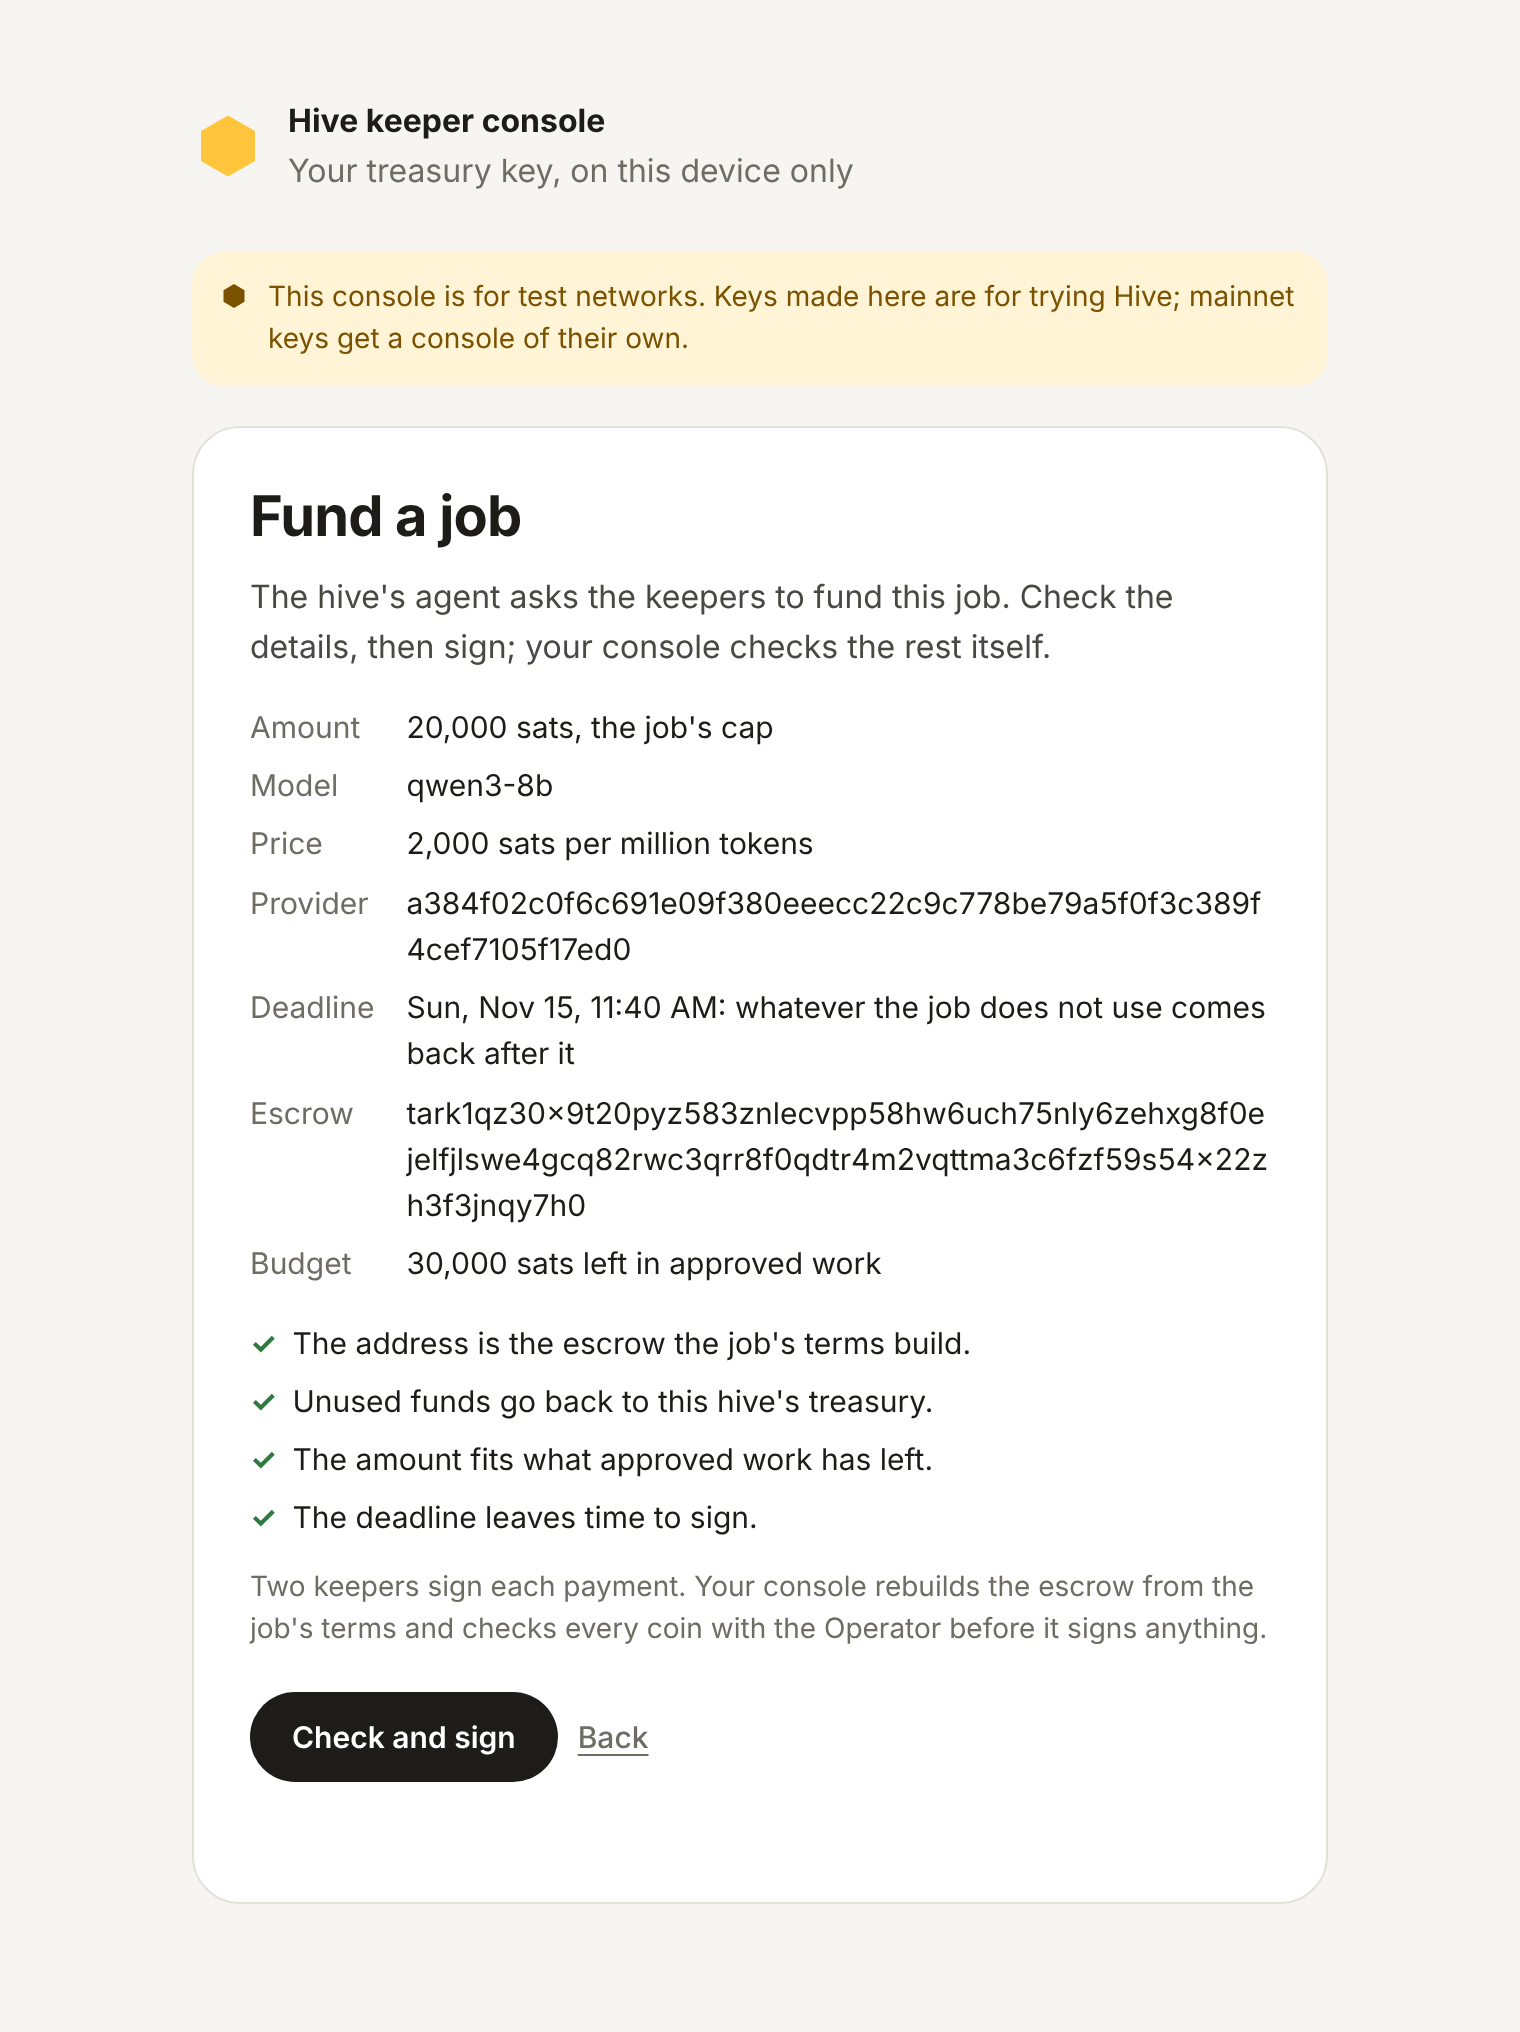
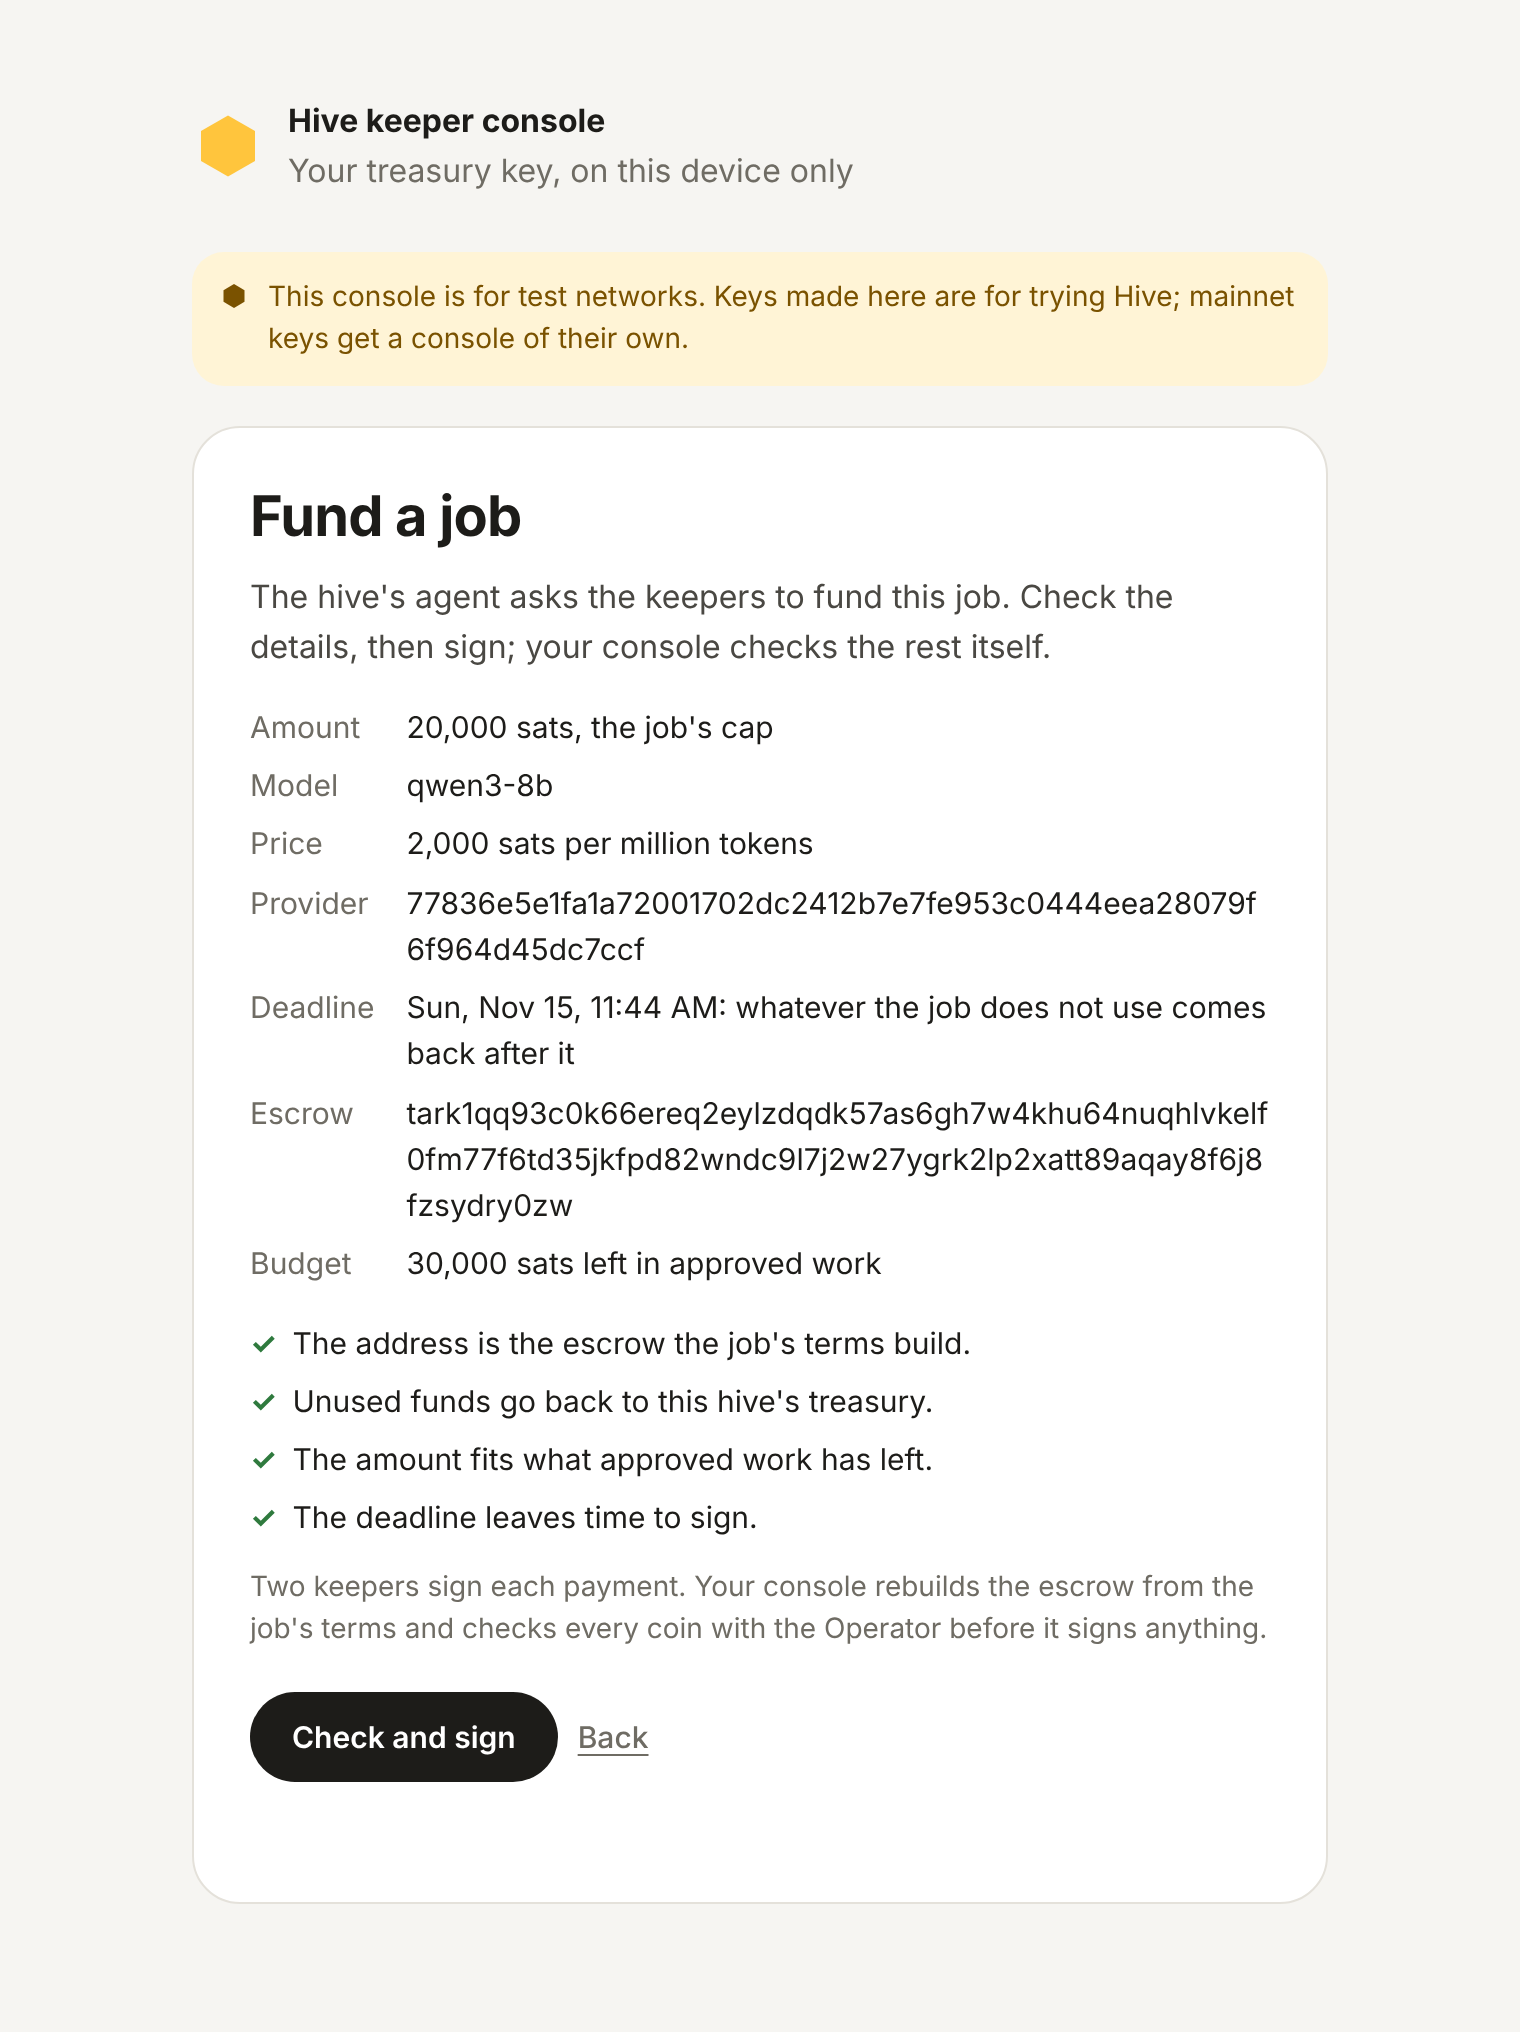
Keepers, passkeys and signing in the README

Changed region(s): [[0.2783, 0.5271, 0.8349, 0.6201], [0.2783, 0.4341, 0.8349, 0.4961]]

diff --git a/test/support/keeper-console.ts b/test/support/keeper-console.ts
@@ -51,6 +51,8 @@ export async function keeperDevice(
   consoleUrl: string,
   arkdUrl: string,
   contextOptions: Record<string, unknown> = {},
+  /** Called on each screen of key creation, for screenshots. */
+  onScreen: (page: Page, name: string) => Promise<void> = async () => {},
 ) {
   const context = await browser.newContext(contextOptions);
   const page = await context.newPage();
@@ -79,9 +81,13 @@ export async function keeperDevice(
   const errors: string[] = [];
   page.on("pageerror", (e: Error) => errors.push(e.message));
   await page.goto(consoleUrl);
+  await page.getByRole("heading", { name: "Create your keeper key" }).waitFor();
+  await onScreen(page, "create");
   await page.getByRole("button", { name: "Create my key" }).click();
+  await page.locator("#b-pass").waitFor();
   await page.locator("#b-pass").fill("correct horse battery staple");
   await page.locator("#b-again").fill("correct horse battery staple");
+  await onScreen(page, "backup");
   await page.getByRole("button", { name: "Encrypt the backup" }).click();
   await page.getByRole("button", { name: "Save the backup file" }).click();
   await page

diff --git a/test/keeper-console-e2e.ts b/test/keeper-console-e2e.ts
@@ -43,6 +43,7 @@ try {
     site.url,
     fake.deployment().arkdUrl,
     shots ? { deviceScaleFactor: 2, viewport: { width: 760, height: 900 } } : {},
+    (page, name) => shoot(page, `keeper-console-${name}`),
   );
   await shoot(a.page, "keeper-console-key");
   const b = await keeperDevice(browser, site.url, fake.deployment().arkdUrl);

diff --git a/README.md b/README.md
@@ -78,19 +78,58 @@ For questions it can bring in a guide, a Goose agent on Buzz's own harness, and 
 community gets four tools from the plugin (`hive_guide`, `hive_proposals`, `hive_status` and
 `hive_docs`) that answer from the hive's live state and its documentation.
 
+One plugin build serves every hive on a Hive service and finds its own by the channel it sits in.
+The plugin screenshots are its own components rendered with sample data and Buzz's tokens by
+`hive/hive-buzz/test/preview.mjs`, and [the plugin's README](hive/hive-buzz/README.md) covers it in
+full. Buzz describes its conversation hooks as a preview rather than a stable interface, so a new
+Buzz release may ask for adjustments.
+
+## Keepers, passkeys and signing
+
+The treasury's keys belong to three keepers the community chooses in its channel, and nobody else
+ever holds them: not the host, not HiveBot, not the agent. Each keeper makes and keeps their key in
+the keeper console, a single page served from an origin of its own, on whatever device they already
+unlock with Touch ID, Face ID or a screen lock.
+
 <p>
-<img src="docs/images/keeper-console.png" alt="The keeper console once a keeper has made their key, ready to open the hive's signing desk" width="49%">
-<img src="docs/images/keeper-console-check.png" alt="The keeper console checking a job before the keeper signs its payment" width="49%">
+<img src="docs/images/keeper-console-create.png" alt="The keeper console's first screen: create your keeper key" width="49%">
+<img src="docs/images/keeper-console-backup.png" alt="Saving an encrypted backup of the key with a passphrase" width="49%">
 </p>
 
-Signing happens outside Buzz, in the keeper console, a single page where each keeper makes their
-treasury key behind a passkey on their own device, saves an encrypted backup, and later checks and
-signs each payment against the escrow's own terms. One plugin build serves every hive on a Hive
-service and finds its own by the channel it sits in. The plugin screenshots are its own components
-rendered with sample data and Buzz's tokens by `hive/hive-buzz/test/preview.mjs`, the console's
-come from `test/keeper-console-e2e.ts` with `HIVE_SHOTS` set, and
-[the plugin's README](hive/hive-buzz/README.md) covers it in full. Buzz describes its conversation
-hooks as a preview rather than a stable interface, so a new Buzz release may ask for adjustments.
+Becoming a keeper takes three steps. HiveBot asks the channel who will keep the treasury, three
+members react ✅ and the founder confirms them. Each of them then opens the console and presses
+Create my key: the key is made in the browser and sealed with AES-GCM under a secret the passkey
+gives the page through WebAuthn's PRF extension, so only that passkey opens it. The
+console asks next for a backup, encrypted with a passphrase of the keeper's choosing (PBKDF2 at
+600,000 iterations) and saved through the system's own save sheet, so the file can go to iCloud
+Drive or Google Drive without the page signing in anywhere. A keeper who loses the device restores
+the key on a new one from that file and a new passkey.
+
+<p>
+<img src="docs/images/keeper-console-key.png" alt="The key is ready: the line to post in the hive's channel, and the field to open the signing desk" width="49%">
+<img src="docs/images/keeper-console-check.png" alt="Funding a job: the console's own checks, all passed, before the keeper signs" width="49%">
+</p>
+
+Last, the console gives the keeper one line to post from their own Buzz account,
+`Hive keeper key: <key>`, which ties the key to their identity in the community. A key line counts
+only from a confirmed keeper, HiveBot acknowledges each one, and once the third is in, the host builds
+the treasury from the three public keys without keeping any of them. Any two keepers together can
+then move funds, and no single keeper can, whoever they are.
+
+Signing follows the same idea. When the agent asks for a job to be funded, the plugin links each
+keeper to the console with the hive's signing desk filled in, and the keeper unlocks the key with
+the passkey for one sitting, after which the console locks itself when left idle. The desk only
+carries messages between keepers: the console rebuilds the job's escrow from its terms with the
+hive's own code, checks that it pays back to this treasury, that the amount fits what approved work
+has left and that every coin is the treasury's, and signs only the messages it computed itself. The
+two keepers can sign hours apart. The first signs at once, the second signs both remaining steps in
+one sitting, and the first comes back once to finish. The nonces those signatures need are shared
+ahead of time and kept on the device under the same passkey, each deleted before the signature that
+uses it. The console also pins the treasury's address the first time it opens a desk and binds each
+job to the first payment it signs for it, while the build for real funds pins the Arkade Operator's
+and Emulator's keys and comes out the same byte for byte from the same commit, so a keeper can check
+what their host serves against hashes they build themselves. The console screenshots come from the
+browser test in which two keepers fund a job (`test/keeper-console-e2e.ts`, with `HIVE_SHOTS` set).
 
 ## How it fits together
 
